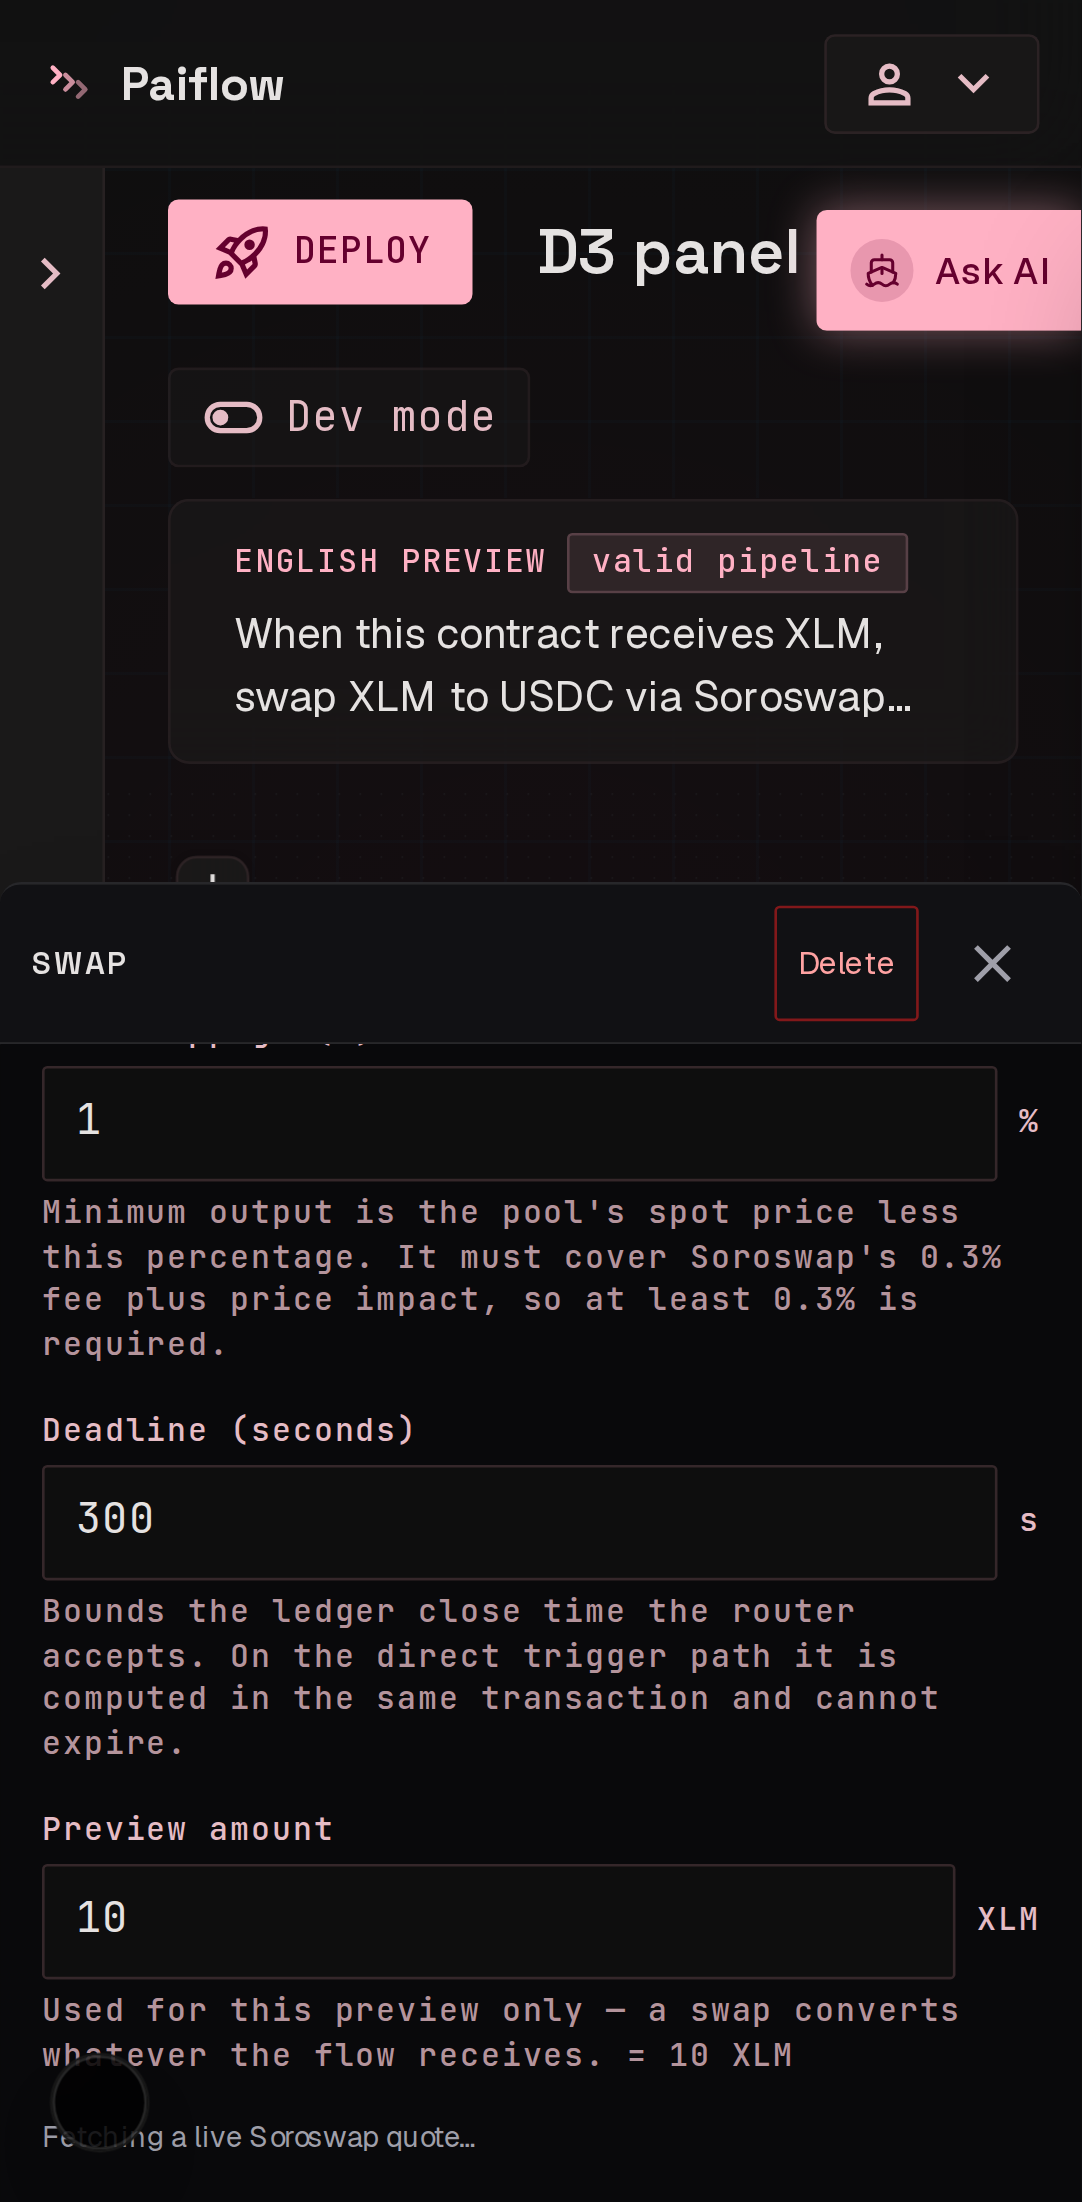
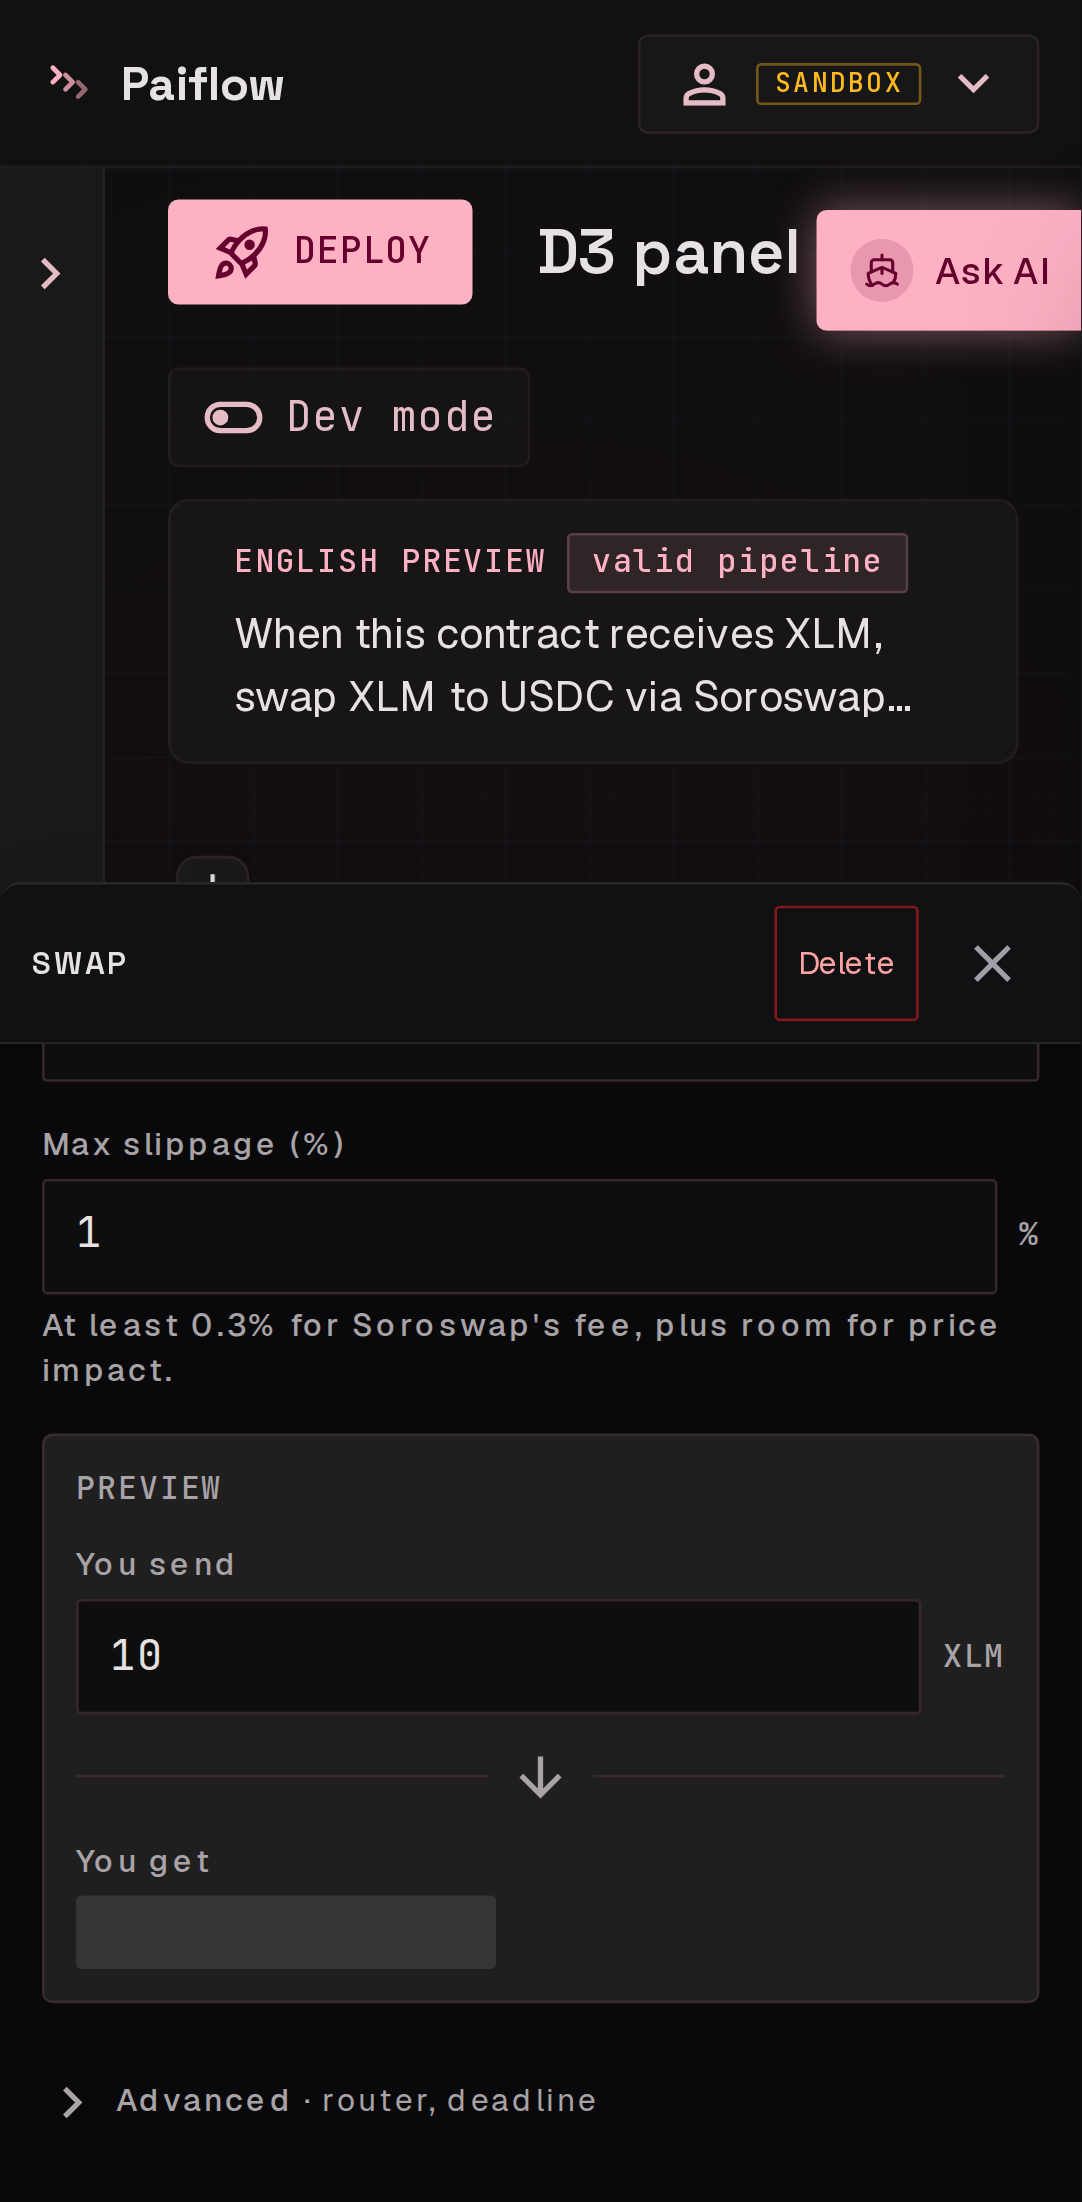
docs(instawards): D3 after-captures from paiflow.xyz, router, composite and Pay contrast (#637)
Re-runs tests/e2e/d3-swap-panel.spec.ts against paiflow.xyz (staging 52cf20d)
through a sandbox session, replacing the localhost 03-08 and 15 under the same
names. Adds 16 (Advanced open: the pinned Soroswap router with copy and
explorer link), 17 (d1/02 | 16 composite) and 18 (the Pay panel on the legacy
inputs), with 03-18-after-meta.json recording the build, browser, viewports
and router id. The spec gains the two capture tests, a shared liftIntoView()
and a wait for the live quote before the panel shots.

diff --git a/tests/e2e/d3-swap-panel.spec.ts b/tests/e2e/d3-swap-panel.spec.ts
@@ -15,6 +15,10 @@
  * Runs on both projects (the per-project suffix keeps their PNGs apart):
  *   PLAYWRIGHT_NO_SERVER=1 ADMIN_SEED_PASSWORD=… pnpm exec playwright test \
  *     tests/e2e/d3-swap-panel.spec.ts
+ *
+ * The committed PNGs are evidence only when taken from paiflow.xyz (#637):
+ * add PLAYWRIGHT_BASE_URL=https://paiflow.xyz, and record the build in
+ * 03-18-after-meta.json.
  */
 import { readFileSync } from "node:fs";
 import { mkdir } from "node:fs/promises";
@@ -24,6 +28,8 @@ const OUT = "docs/instawards/evidence/d3";
 const RECIPIENT = "GC5Q654OUY2FMR6TVBCTQYNGZLGX4ZCGUJ5XDE2UMBSLYYHTNIN3L6O6";
 const XLM = { kind: "native" };
 const USDC = { kind: "known", symbol: "USDC" };
+// Soroswap's published testnet router; see #636's `pnpm soroswap:check`.
+const SOROSWAP_ROUTER_TESTNET = "CCJUD55AG6W5HAI5LRVNKAE5WDP5XGZBUDS5WNTIVDU7O264UZZE7BRD";
 
 // Injected as content: a script `url` is blocked by the app's CSP (lib/csp.ts).
 const AXE_SOURCE = readFileSync("node_modules/axe-core/axe.min.js", "utf8");
@@ -98,6 +104,36 @@ async function openAdvanced(page: Page) {
     (el as HTMLDetailsElement).open = true;
   });
   await expect(advanced.getByTestId("swap-router")).toBeVisible();
+}
+
+/**
+ * The floating panel opens with its foot below the viewport, which would cut
+ * the bottom off a shot. Its header drags it (asserted in the mouse suite
+ * below), so lift it by exactly what the foot needs — measured, not a fixed
+ * amount a taller panel would outgrow, and no further, because the builder's
+ * own header strip paints over the top of the canvas.
+ */
+async function liftIntoView(page: Page) {
+  const panel = container(page);
+  const vh = page.viewportSize()!.height;
+  const card = (await panel.boundingBox())!;
+  const lift = Math.max(0, Math.min(card.y, card.y + card.height + 24 - vh));
+  const header = panel.getByRole("heading", { name: / settings$/ });
+  const h = (await header.boundingBox())!;
+  const x = h.x + h.width / 2;
+  const y = h.y + h.height / 2;
+  await page.mouse.move(x, y);
+  await page.mouse.down();
+  await page.mouse.move(x, y - lift, { steps: 8 });
+  await page.mouse.up();
+  // The drag's whole purpose: the card ends up entirely in frame. A panel
+  // too tall for the viewport fails here rather than clipping the PNG.
+  await expect
+    .poll(async () => {
+      const b = (await panel.boundingBox())!;
+      return b.y >= 0 && b.y + b.height <= vh;
+    })
+    .toBe(true);
 }
 
 async function axeViolations(page: Page) {
@@ -292,32 +328,7 @@ test.describe("Config panel container (Instawards D3)", () => {
     );
     expect(described).toMatch(/pool fee is 0\.3%/);
 
-    // The floating panel opens with its foot below the viewport, which would
-    // cut the message off the shot. Its header drags it (asserted in the mouse
-    // suite below), so lift it by exactly what the foot needs — measured, not a
-    // fixed amount a taller panel would outgrow, and no further, because the
-    // builder's own header strip paints over the top of the canvas.
-    if (!isMobile) {
-      const vh = page.viewportSize()!.height;
-      const card = (await panel.boundingBox())!;
-      const lift = Math.max(0, Math.min(card.y, card.y + card.height + 24 - vh));
-      const header = panel.getByRole("heading", { name: "Swap settings" });
-      const h = (await header.boundingBox())!;
-      const x = h.x + h.width / 2;
-      const y = h.y + h.height / 2;
-      await page.mouse.move(x, y);
-      await page.mouse.down();
-      await page.mouse.move(x, y - lift, { steps: 8 });
-      await page.mouse.up();
-      // The drag's whole purpose: the card ends up entirely in frame. A panel
-      // too tall for the viewport fails here rather than clipping the PNG.
-      await expect
-        .poll(async () => {
-          const b = (await panel.boundingBox())!;
-          return b.y >= 0 && b.y + b.height <= vh;
-        })
-        .toBe(true);
-    }
+    if (!isMobile) await liftIntoView(page);
 
     const message = panel.getByText(/makes every swap revert/);
     await expect(message).toBeVisible();
@@ -332,6 +343,51 @@ test.describe("Config panel container (Instawards D3)", () => {
     await (isMobile ? panel.screenshot(shot) : page.screenshot(shot));
 
     expect(await axeViolations(page)).toEqual([]);
+  });
+
+  // The #637 after-shots. The desktop card is clipped from the page by its
+  // bounding box rather than captured as an element, for the transformed-
+  // viewport reason given at 15 above.
+  async function panelShot(page: Page, isMobile: boolean, path: string) {
+    const panel = container(page);
+    if (isMobile) return panel.screenshot({ path, animations: "disabled" });
+    const clip = (await panel.boundingBox())!;
+    return page.screenshot({ path, clip, animations: "disabled" });
+  }
+
+  test("Advanced shows the pinned Soroswap router, with copy and explorer link", async ({
+    page,
+    isMobile,
+  }) => {
+    await gotoBuilder(page, flowId);
+    await swapNode(page).click();
+    const panel = container(page);
+    await expect(panel).toHaveAccessibleName("Swap settings");
+    await openAdvanced(page);
+
+    const router = panel.getByTestId("swap-router");
+    await expect(router.locator("output")).toHaveAttribute("title", SOROSWAP_ROUTER_TESTNET);
+    await expect(router.getByRole("button", { name: /^Copy Router/ })).toBeVisible();
+    await expect(router.getByRole("link", { name: /on stellar\.expert/ })).toHaveAttribute(
+      "href",
+      new RegExp(`/testnet/contract/${SOROSWAP_ROUTER_TESTNET}$`),
+    );
+
+    // The live Soroswap quote, so the ticket is not an empty skeleton.
+    await expect(panel.getByTestId("swap-quote")).not.toHaveAttribute("aria-busy", "true");
+    if (isMobile) await panel.getByLabel(/Deadline/).scrollIntoViewIfNeeded();
+    else await liftIntoView(page);
+    await panelShot(page, isMobile, `${OUT}/16-swap-panel-advanced-after-${sfx}.png`);
+  });
+
+  // Contrast for D3's later-phase argument: Pay still renders the legacy
+  // `AssetField` select, payout-mode select and bare checkbox beside the
+  // migrated AddressPicker.
+  test("the Pay panel, not yet on the shared inputs", async ({ page, isMobile }) => {
+    await gotoBuilder(page, flowId);
+    await page.locator('.react-flow__node[data-id="p"]').click();
+    await expect(container(page)).toHaveAccessibleName("Pay settings");
+    await panelShot(page, isMobile, `${OUT}/18-pay-panel-legacy-${sfx}.png`);
   });
 
   test("with reduced motion the panel has no transform transition", async ({ page, isMobile }) => {
@@ -378,6 +434,7 @@ test.describe("Config panel container (Instawards D3)", () => {
       await expect(panel).toBeVisible();
       expect(await panel.evaluate((el) => el.contains(document.activeElement))).toBe(false);
       await expect(page.getByTestId("config-panel")).toBeVisible();
+      await expect(panel.getByTestId("swap-quote")).not.toHaveAttribute("aria-busy", "true");
 
       // Still in flow space: inside the viewport, and it zooms with the canvas.
       expect(await panel.evaluate((el) => !!el.closest(".react-flow__viewport"))).toBe(true);
